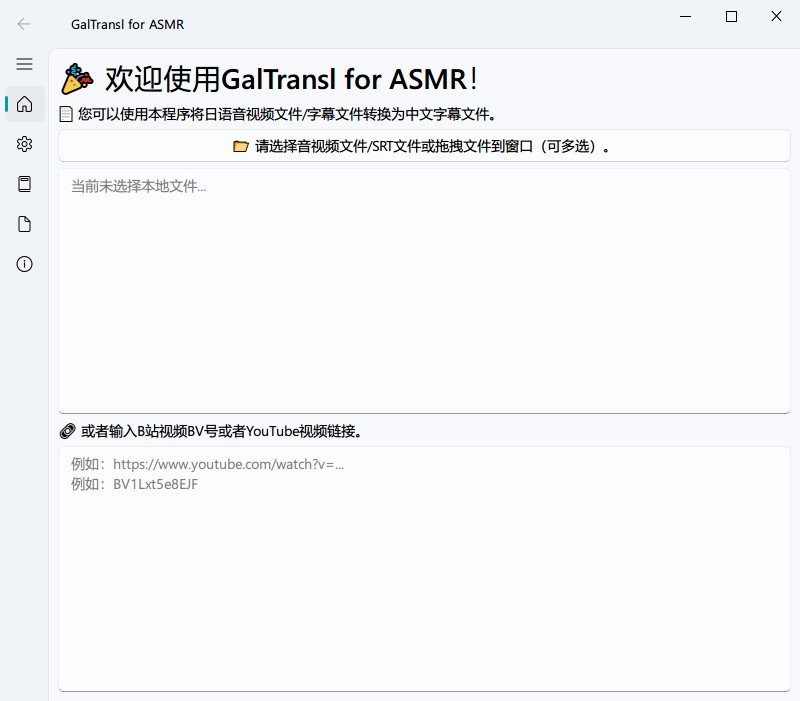
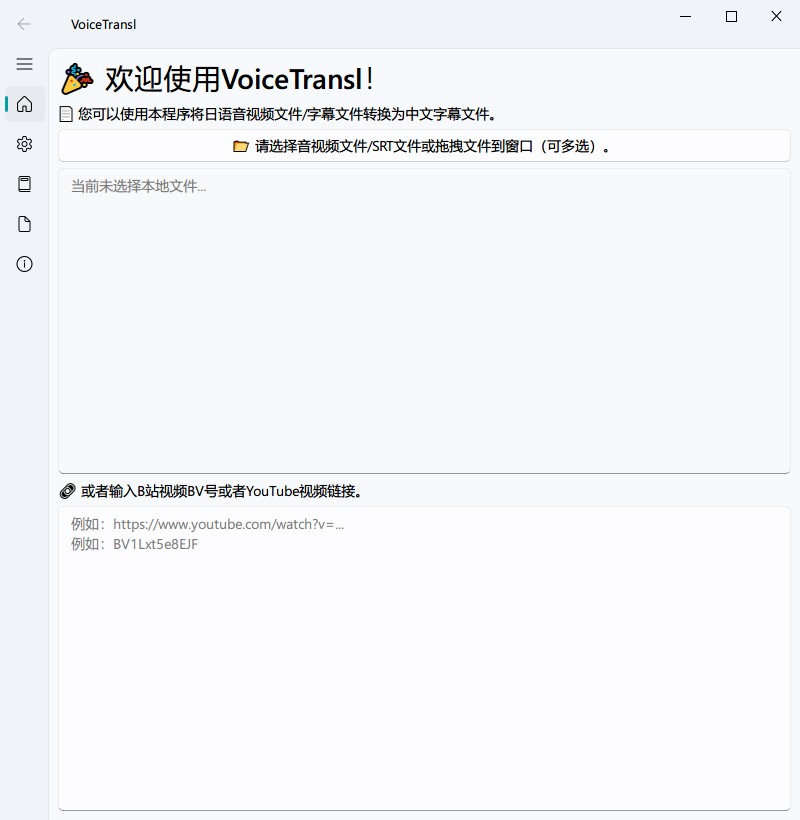
feat: VoiceTransl

diff --git a/app.py b/app.py
@@ -45,7 +45,7 @@ class MainWindow(QMainWindow):
         self.thread = None
         self.worker = None
 
-        self.setWindowTitle("GalTransl for ASMR")
+        self.setWindowTitle("VoiceTransl")
         self.resize(800, 600)
         self.initUI()
         
@@ -88,7 +88,7 @@ class MainWindow(QMainWindow):
         self.about_layout.addWidget(TitleLabel("📖 关于"))
         self.introduce_text = QTextEdit()
         self.introduce_text.setReadOnly(True)
-        self.introduce_text.setPlainText("GalTransl是一套将数个基础功能上的微小创新与对GPT提示工程（Prompt Engineering）的深度利用相结合的Galgame自动化翻译工具，用于制作内嵌式翻译补丁。 GalTransl for ASMR是GalTransl的一个分支，您可以使用本程序将日语音视频文件/字幕文件转换为中文字幕文件。项目地址及使用说明: https://github.com/shinnpuru/GalTransl-for-ASMR。")
+        self.introduce_text.setPlainText("VoiceTransl（原Galtransl for ASMR）是一个离线AI视频字幕生成和翻译软件，您可以使用本程序从外语音视频文件/字幕文件生成中文字幕文件。项目地址及使用说明: https://github.com/shinnpuru/VoiceTransl。")
         self.about_layout.addWidget(self.introduce_text)
 
         # disclaimer
@@ -104,7 +104,7 @@ class MainWindow(QMainWindow):
         self.input_output_tab = Widget("Home", self)
         self.input_output_layout = self.input_output_tab.vBoxLayout
         
-        self.input_output_layout.addWidget(TitleLabel("🎉 欢迎使用GalTransl for ASMR！"))
+        self.input_output_layout.addWidget(TitleLabel("🎉 欢迎使用VoiceTransl！"))
         self.input_output_layout.addWidget(BodyLabel("📄 您可以使用本程序将日语音视频文件/字幕文件转换为中文字幕文件。"))
         
         # Input Section
@@ -190,12 +190,12 @@ class MainWindow(QMainWindow):
 
         self.settings_layout.addWidget(BodyLabel("🌌 自定义OpenAI地址 (gpt-custom)"))
         self.gpt_address = QLineEdit()
-        self.gpt_address.setPlaceholderText("例如：https://127.0.0.1")
+        self.gpt_address.setPlaceholderText("例如：http://127.0.0.1:11434")
         self.settings_layout.addWidget(self.gpt_address)
 
         self.settings_layout.addWidget(BodyLabel("📄 自定义OpenAI模型 (gpt-custom)"))
         self.gpt_model = QLineEdit()
-        self.gpt_model.setPlaceholderText("例如：llama3")
+        self.gpt_model.setPlaceholderText("例如：qwen2.5")
         self.settings_layout.addWidget(self.gpt_model)
         
         self.settings_layout.addWidget(BodyLabel("📦 离线模型文件"))
@@ -350,40 +350,43 @@ class MainWorker(QObject):
         for idx, line in enumerate(lines):
             if 'language' in line:
                 lines[idx] = f'  language: "{language}2zh-cn"\n'
-            if 'gpt' in translator and gpt_token:
-                if not 'custom' in translator:
+            if 'gpt' in translator:
+                if not gpt_address:
                     gpt_address = 'https://api.openai.com'
+                if not gpt_model:
                     gpt_model = ''
+                if not gpt_token:
+                    gpt_token = 'sk-bbbbbbbbbbbbbbbbbbbbbbbbbbbbbbbbbbbbbbbbbbbbbbbb'
                 if 'GPT35:' in line:
-                    lines[idx+2] = f"      - token: {gpt_token}\n"
+                    lines[idx+4] = f"      - token: {gpt_token}\n"
                     lines[idx+6] = f"    defaultEndpoint: {gpt_address}\n"
                     lines[idx+7] = f'    rewriteModelName: "{gpt_model}"\n'
                 if 'GPT4: # GPT4 API' in line:
                     lines[idx+2] = f"      - token: {gpt_token}\n"
                     lines[idx+4] = f"    defaultEndpoint: {gpt_address}\n"
-            if 'moonshot' in translator and gpt_token:
+            if 'moonshot' in translator:
                 if 'GPT35:' in line:
-                    lines[idx+2] = f"      - token: {gpt_token}\n"
+                    lines[idx+4] = f"      - token: {gpt_token}\n"
                     lines[idx+6] = f"    defaultEndpoint: https://api.moonshot.cn\n"
                     lines[idx+7] = f'    rewriteModelName: "{translator}"\n'
-            if 'deepseek' in translator and gpt_token:
+            if 'deepseek' in translator:
                 if 'GPT35:' in line:
-                    lines[idx+2] = f"      - token: {gpt_token}\n"
+                    lines[idx+4] = f"      - token: {gpt_token}\n"
                     lines[idx+6] = f"    defaultEndpoint: https://api.deepseek.com\n"
                     lines[idx+7] = f'    rewriteModelName: "{translator}"\n'
-            if 'qwen' in translator and gpt_token:
+            if 'qwen' in translator:
                 if 'GPT35:' in line:
-                    lines[idx+2] = f"      - token: {gpt_token}\n"
+                    lines[idx+4] = f"      - token: {gpt_token}\n"
                     lines[idx+6] = f"    defaultEndpoint: https://dashscope.aliyuncs.com/compatible-mode\n"
                     lines[idx+7] = f'    rewriteModelName: "{translator}"\n'
-            if 'glm' in translator and gpt_token:
+            if 'glm' in translator:
                 if 'GPT35:' in line:
-                    lines[idx+2] = f"      - token: {gpt_token}\n"
+                    lines[idx+4] = f"      - token: {gpt_token}\n"
                     lines[idx+6] = f"    defaultEndpoint: https://open.bigmodel.cn/api/paas\n"
                     lines[idx+7] = f'    rewriteModelName: "{translator}"\n'
-            if 'abab' in translator and gpt_token:
+            if 'abab' in translator:
                 if 'GPT35:' in line:
-                    lines[idx+2] = f"      - token: {gpt_token}\n"
+                    lines[idx+4] = f"      - token: {gpt_token}\n"
                     lines[idx+6] = f"    defaultEndpoint: https://api.minimax.chat\n"
                     lines[idx+7] = f'    rewriteModelName: "{translator}"\n'
             if proxy_address:

diff --git a/README.md b/README.md
@@ -1,8 +1,8 @@
 
-<h1><p align='center' >GalTransl for ASMR</p></h1>
-<div align=center><img src="https://img.shields.io/github/v/release/shinnpuru/GalTransl-for-ASMR"/>   <img src="https://img.shields.io/github/license/shinnpuru/GalTransl-for-ASMR"/>   <img src="https://img.shields.io/github/stars/shinnpuru/GalTransl-for-ASMR"/></div>
+<h1><p align='center' >VoiceTransl</p></h1>
+<div align=center><img src="https://img.shields.io/github/v/release/shinnpuru/VoiceTransl"/>   <img src="https://img.shields.io/github/license/shinnpuru/VoiceTransl"/>   <img src="https://img.shields.io/github/stars/shinnpuru/VoiceTransl"/></div>
 
-GalTransl for ASMR是一个离线AI视频字幕生成和翻译软件，您可以使用本程序将日语音视频文件/字幕文件转换为中文字幕文件。详细说明请见 [视频教程](https://www.bilibili.com/video/BV1ZoUYYXEio)。
+VoiceTransl（原Galtransl for ASMR）是一个离线AI视频字幕生成和翻译软件，您可以使用本程序从外语音视频文件/字幕文件生成中文字幕文件。详细说明请见 [视频教程](https://www.bilibili.com/video/BV1ZoUYYXEio)。
 
 <div align=center><img src="title.jpg" alt="title" style="width:512px;"/></div>
 
@@ -12,17 +12,18 @@ GalTransl for ASMR是一个离线AI视频字幕生成和翻译软件，您可以
 * 支持AMD/NVIDIA/Intel GPU加速，翻译引擎支持调整显存占用。
 * 支持多种输入格式，包括音频、视频、SRT字幕。
 * 支持多种输出格式，包括SRT字幕、LRC字幕。
+* 支持多种语言，包括日语，英语，韩语，俄语，法语。
 * 支持字典功能，可以自定义翻译字典，替换输入输出。
 * 支持从YouTube/Bilibili直接下载视频。
 * 支持文件和链接批量处理，自动识别文件类型。
 
 ## 下载
 
-从Release页面下载最新版本的[GalTransl for ASMR](https://github.com/shinnpuru/GalTransl-for-ASMR/releases)，解压后运行`app.exe`。
+从Release页面下载最新版本的[VoiceTransl](https://github.com/shinnpuru/VoiceTransl/releases)，解压后运行`app.exe`。
 
-## 听写（NVIDIA推荐）
+## 听写
 
-听写模型基于[faster-whisper](https://github.com/Purfview/whisper-standalone-win)引擎，请根据[配置要求](whisper-faster/README.md)准备DLL和EXE文件。
+* NVIDIA推荐使用[faster-whisper](https://github.com/Purfview/whisper-standalone-win)模型，支持更高的准确率。请根据[配置要求](whisper-faster/README.md)准备DLL和EXE文件。
 
 模型需要自行下载，请选择合适的模型下载然后放到`whisper-faster`文件夹。
 
@@ -32,9 +33,7 @@ GalTransl for ASMR是一个离线AI视频字幕生成和翻译软件，您可以
 | faster-whisper-medium | 1.42 GiB | ~2 GB | [下载](https://huggingface.co/Systran/faster-whisper-medium) |
 | faster-whisper-large-v2  | 2.87 GiB | ~3 GB | [下载](https://huggingface.co/Systran/faster-whisper-large-v2) |
 
-## 听写（AMD/Intel推荐）
-
-听写模型基于[whisper.cpp](https://github.com/ggerganov/whisper.cpp)引擎，已经为Vulkan编译配置好。
+* AMD/Intel推荐使用[whisper.cpp](https://github.com/ggerganov/whisper.cpp)模型，支持更高的兼容性，引擎已经为Vulkan编译配置好。
 
 模型需要自行下载，请选择合适的模型下载然后放到`whisper`文件夹。
 
@@ -74,7 +73,7 @@ GalTransl for ASMR是一个离线AI视频字幕生成和翻译软件，您可以
 | [GalTransl-7B-Q6](https://github.com/xd2333/GalTransl) | 5.9 GiB | ~11 GB | [下载](https://huggingface.co/SakuraLLM/GalTransl-7B-v2.5/resolve/main/GalTransl-7B-v2-Q6_K.gguf?download=true) |
 | [Sakura-13B-Q4](https://github.com/SakuraLLM/SakuraLLM)  | 9.45 GB | ~16 GB | [下载](https://huggingface.co/SakuraLLM/Sakura-14B-LNovel-v0.9b-GGUF/resolve/main/sakura-13b-lnovel-v0.9b-Q4_K_M.gguf?download=true) |
 
-3. 如果需要使用Ollama或者其他本地模型引擎，请使用gpt-custom接口，并配置自定义OpenAI地址为`http://localhost:11434`，具体请参考[OpenAI兼容性](https://ollama.com/blog/openai-compatibility).
+3. 如果需要使用Ollama或者其他本地模型引擎，请使用gpt-custom接口，配置自定义OpenAI地址为`http://localhost:11434`，并填写自定义OpenAI模型。具体请参考[OpenAI兼容性](https://ollama.com/blog/openai-compatibility).
 
 ## 常见问题
 
@@ -86,15 +85,15 @@ GalTransl for ASMR是一个离线AI视频字幕生成和翻译软件，您可以
 
 缓存文件中可能存在问题，可以尝试清理下载缓存，或者重新解压程序到一个新的目录。
 
-3. 输出日志乱码
+3. 命令行输出乱码
 
 请检查系统编码是否为UTF-8，Windows控制面板-区域-更改日期、时间或数字格式-管理-更改系统区域设置-使用UTF-8提供全球语言支持。
 
-4. 我没有显卡可以用吗
+4. 没有显卡可以用吗
 
 可以使用在线镜像进行运行，不需要显卡，详细请参考[镜像部署](https://www.codewithgpu.com/i/shinnpuru/GalTransl-for-ASMR/GalTransl-for-ASMR)。
 
-5. 我不是Windows系统可以用吗
+5. 不是Windows系统可以用吗
 
 Linux可以使用服务器部署进行运行，详细请参考[server分支](https://github.com/shinnpuru/GalTransl-for-ASMR/tree/server)。MacOS暂时不支持，用户可以使用[镜像部署](https://www.codewithgpu.com/i/shinnpuru/GalTransl-for-ASMR/GalTransl-for-ASMR)。
 
